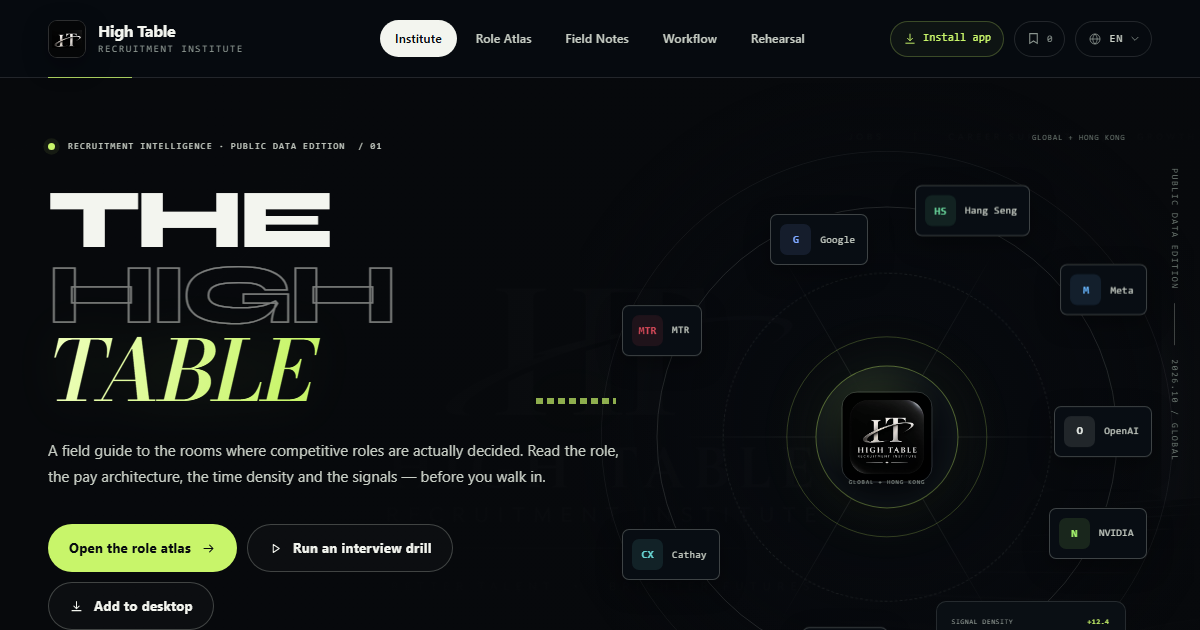
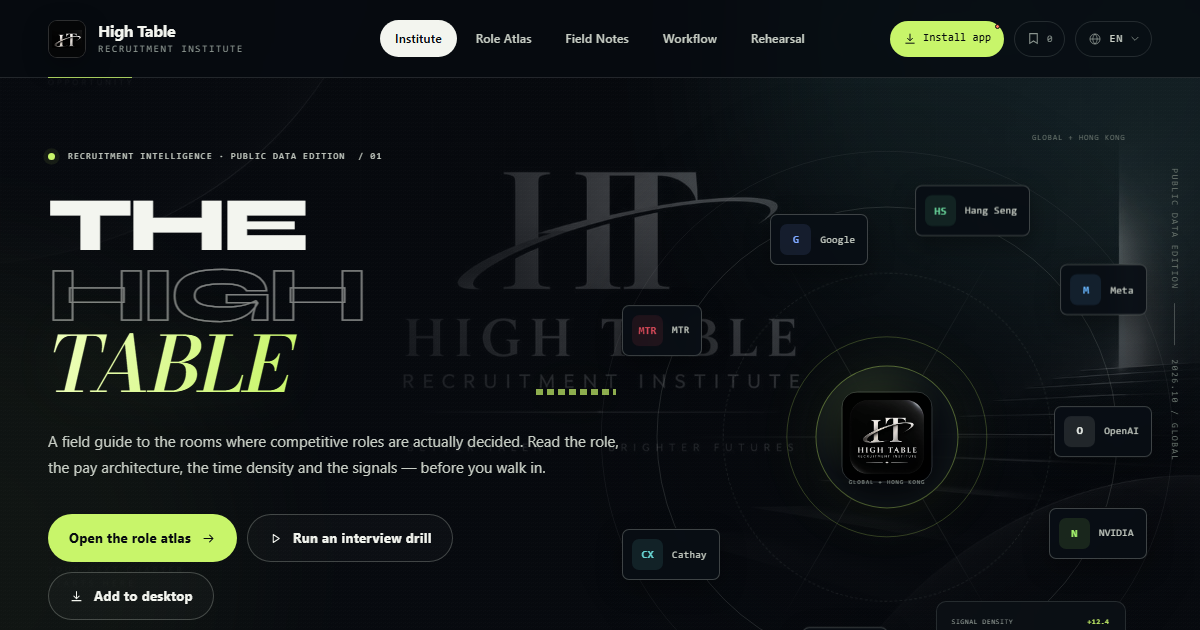
Add files via upload

diff --git a/styles.css b/styles.css
@@ -213,10 +213,23 @@ button {
 
 .site-backdrop {
   position: fixed;
-  z-index: -2;
+  z-index: 0;
   inset: 0;
+  background-color: var(--ink);
+  background-image:
+    linear-gradient(90deg, rgba(7, 10, 15, 0.94) 0%, rgba(7, 10, 15, 0.88) 34%, rgba(7, 10, 15, 0.74) 56%, rgba(7, 10, 15, 0.46) 78%, rgba(7, 10, 15, 0.7) 100%),
+    linear-gradient(180deg, rgba(7, 10, 15, 0.38) 0%, rgba(7, 10, 15, 0.06) 34%, rgba(7, 10, 15, 0.7) 100%),
+    url("./assets/high-table-background.jpg");
+  background-repeat: no-repeat;
+  background-position: center center;
+  background-size: auto, auto, cover;
   pointer-events: none;
   overflow: hidden;
+}
+
+main {
+  position: relative;
+  z-index: 1;
 }
 
 .backdrop-grid {
@@ -961,23 +974,6 @@ html[data-lang="zh"] .section-head h2 {
   isolation: isolate;
 }
 
-.home-hero.hero-cinematic::before {
-  content: "";
-  position: absolute;
-  z-index: 0;
-  top: 0;
-  bottom: 0;
-  left: 50%;
-  width: 100vw;
-  background:
-    linear-gradient(90deg, rgba(7, 10, 15, 1) 0%, rgba(7, 10, 15, 0.985) 34%, rgba(7, 10, 15, 0.95) 58%, rgba(7, 10, 15, 0.82) 78%, rgba(7, 10, 15, 0.95) 100%),
-    linear-gradient(180deg, rgba(7, 10, 15, 0.9) 0%, rgba(7, 10, 15, 0.56) 42%, rgba(7, 10, 15, 0.99) 100%),
-    url("./assets/high-table-background.jpg") center center / cover no-repeat;
-  transform: translateX(-50%);
-  filter: saturate(0.72) brightness(0.9);
-  pointer-events: none;
-}
-
 .home-hero.hero-cinematic::after {
   content: "";
   position: absolute;
@@ -1129,8 +1125,8 @@ html[data-lang="zh"] .section-head h2 {
   inset: -8%;
   background: radial-gradient(
     circle at 50% 47%,
-    rgba(7, 10, 15, 0.82) 0%,
-    rgba(7, 10, 15, 0.48) 44%,
+    rgba(7, 10, 15, 0.52) 0%,
+    rgba(7, 10, 15, 0.24) 44%,
     rgba(7, 10, 15, 0) 72%
   );
   pointer-events: none;
@@ -3084,7 +3080,9 @@ html[data-lang="zh"] .section-head h2 {
   padding: 16px;
   border: 1px solid var(--line-strong);
   border-radius: 12px;
-  background: rgba(255, 255, 255, 0.018);
+  background: rgba(9, 13, 19, 0.78);
+  backdrop-filter: blur(14px);
+  -webkit-backdrop-filter: blur(14px);
 }
 
 .workflow-role-field {
@@ -3343,7 +3341,10 @@ html[data-lang="zh"] .section-head h2 {
   align-items: center;
   gap: 22px;
   margin-bottom: 22px;
-  padding: 4px 2px;
+  padding: 12px 14px;
+  border: 1px solid rgba(255, 255, 255, 0.06);
+  border-radius: 8px;
+  background: linear-gradient(90deg, rgba(9, 13, 19, 0.78), rgba(9, 13, 19, 0.28));
 }
 
 .workflow-role-lockup {
@@ -3398,7 +3399,9 @@ html[data-lang="zh"] .section-head h2 {
   border: 1px solid var(--line);
   border-radius: 8px;
   color: var(--muted);
-  background: rgba(255, 255, 255, 0.012);
+  background: rgba(9, 13, 19, 0.74);
+  backdrop-filter: blur(10px);
+  -webkit-backdrop-filter: blur(10px);
   text-align: left;
   overflow: hidden;
   transition: border-color 0.2s, background 0.2s, transform 0.22s var(--ease);
@@ -3478,7 +3481,7 @@ html[data-lang="zh"] .section-head h2 {
   border-radius: 12px;
   background:
     linear-gradient(145deg, rgba(255, 255, 255, 0.025), rgba(255, 255, 255, 0.006)),
-    rgba(10, 14, 20, 0.66);
+    rgba(10, 14, 20, 0.82);
 }
 
 .workflow-detail-card,
@@ -6740,6 +6743,223 @@ html[data-lang="zh"] .section-head h2 {
   .atlas-stat-value {
     font-size: 20px;
   }
+}
+
+/* ---------- Global type calibration ---------- */
+
+.hero-title {
+  font-size: clamp(52px, 6.4vw, 94px);
+}
+
+html[data-lang="zh"] .hero-title {
+  font-size: clamp(50px, 6.8vw, 104px);
+}
+
+.page-head h1,
+.sim-intro-copy h1 {
+  font-size: clamp(42px, 4.8vw, 72px);
+}
+
+.section-head h2 {
+  font-size: clamp(26px, 3.1vw, 44px);
+}
+
+html[data-lang="zh"] .section-head h2 {
+  font-size: clamp(22px, 2.8vw, 40px);
+}
+
+.workflow-detail-top h2,
+.workflow-decision-head h2 {
+  font-size: clamp(26px, 2.8vw, 40px);
+}
+
+.workflow-walk-main h1 {
+  font-size: clamp(34px, 4.2vw, 54px);
+}
+
+.workflow-complete-card h1 {
+  font-size: clamp(38px, 4.5vw, 58px);
+}
+
+.results-head h1 {
+  font-size: clamp(38px, 4.4vw, 58px);
+}
+
+.company-title-row h1 {
+  font-size: clamp(44px, 5.7vw, 82px);
+}
+
+.modal-content h2 {
+  font-size: clamp(30px, 3.6vw, 42px);
+}
+
+.manifesto blockquote {
+  font-size: clamp(32px, 4.7vw, 62px);
+}
+
+.instrument-card h3 {
+  font-size: clamp(27px, 2.4vw, 34px);
+}
+
+.page-head-side p,
+.section-head p {
+  font-size: 15px;
+}
+
+.eyebrow {
+  font-size: 11px;
+}
+
+.section-kicker {
+  font-size: 10px;
+}
+
+.page-head-note {
+  font-size: 11.5px;
+  line-height: 1.7;
+}
+
+.tag {
+  min-height: 26px;
+  font-size: 9.5px;
+}
+
+.role-summary {
+  font-size: 12.5px;
+}
+
+.role-company-name {
+  font-size: 12px;
+}
+
+.role-company-loc {
+  font-size: 8.5px;
+}
+
+.role-pay-label,
+.role-fact-label {
+  font-size: 9px;
+}
+
+.role-pay-value {
+  font-size: 17px;
+}
+
+.role-fact-value {
+  font-size: 10.5px;
+}
+
+.role-level,
+.role-open {
+  font-size: 9px;
+}
+
+.role-apply-link {
+  font-size: 10px;
+}
+
+.filter-status-count {
+  font-size: 11px;
+}
+
+.clear-filters {
+  font-size: 10px;
+}
+
+.company-hq,
+.company-tile-foot,
+.instrument-footer .mono {
+  font-size: 9px;
+}
+
+.modal-kicker,
+.workflow-card-kicker {
+  font-size: 10px;
+}
+
+.modal-content p,
+.read-modal-body p {
+  font-size: 13.5px;
+}
+
+.comp-note {
+  font-size: 11px!important;
+  line-height: 1.7;
+}
+
+.role-info-cell span {
+  font-size: 9px;
+}
+
+.role-info-cell strong {
+  font-size: 12px;
+}
+
+.loop-item strong {
+  font-size: 12px;
+}
+
+.loop-item span,
+.signal-list li,
+.source-link {
+  font-size: 11px;
+}
+
+.source-link em {
+  font-size: 9px;
+}
+
+.callout {
+  font-size: 12px;
+}
+
+.resource-card p {
+  font-size: 12px;
+}
+
+.resource-meta,
+.resource-type {
+  font-size: 9px;
+}
+
+.sidebar-label {
+  font-size: 9px;
+}
+
+.sidebar-card p {
+  font-size: 11.5px;
+}
+
+.sources-mini a {
+  font-size: 10.5px;
+}
+
+.setup-field > label,
+.setup-label {
+  font-size: 9.5px;
+}
+
+.sim-principle span,
+.answer-hint,
+.session-side-note {
+  font-size: 9px;
+}
+
+.question-context {
+  font-size: 13px;
+}
+
+.footer-brand p {
+  font-size: 12px;
+}
+
+.footer-links a,
+.footer-links button {
+  font-size: 11px;
+}
+
+.footer-bottom {
+  font-size: 9px;
 }
 
 @media (prefers-reduced-motion: reduce) {

diff --git a/sw.js b/sw.js
@@ -1,4 +1,4 @@
-const CACHE_NAME = "high-table-shell-v18";
+const CACHE_NAME = "high-table-shell-v21";
 const APP_SHELL = [
   "./",
   "./index.html",
